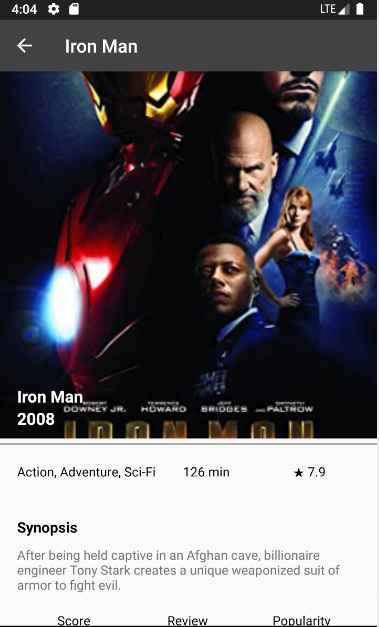
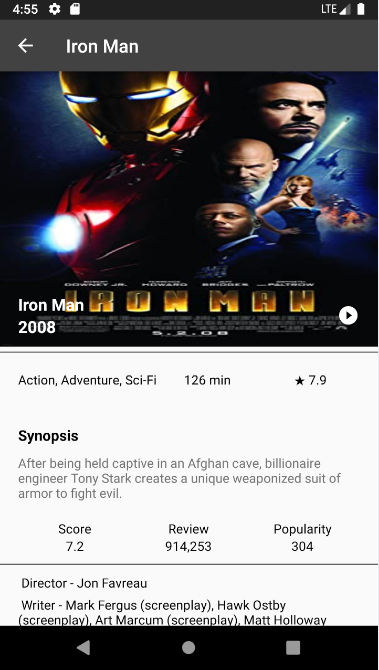
final touch

diff --git a/app/src/main/java/com/naman/movieapp/ui/movieDetails/MovieDetails.kt b/app/src/main/java/com/naman/movieapp/ui/movieDetails/MovieDetails.kt
@@ -94,6 +94,7 @@ class MovieDetails : AppCompatActivity(), KodeinAware {
         tv_director.text = " Director - ${movieResponse.director}"
         tv_writer.text = " Writer - ${movieResponse.writer}"
         tv_actor.text = " Actors - ${movieResponse.actors}"
+        tv_Reviews.text = movieResponse.imdbVotes
     }
 
     private fun handleIntent() : String {
